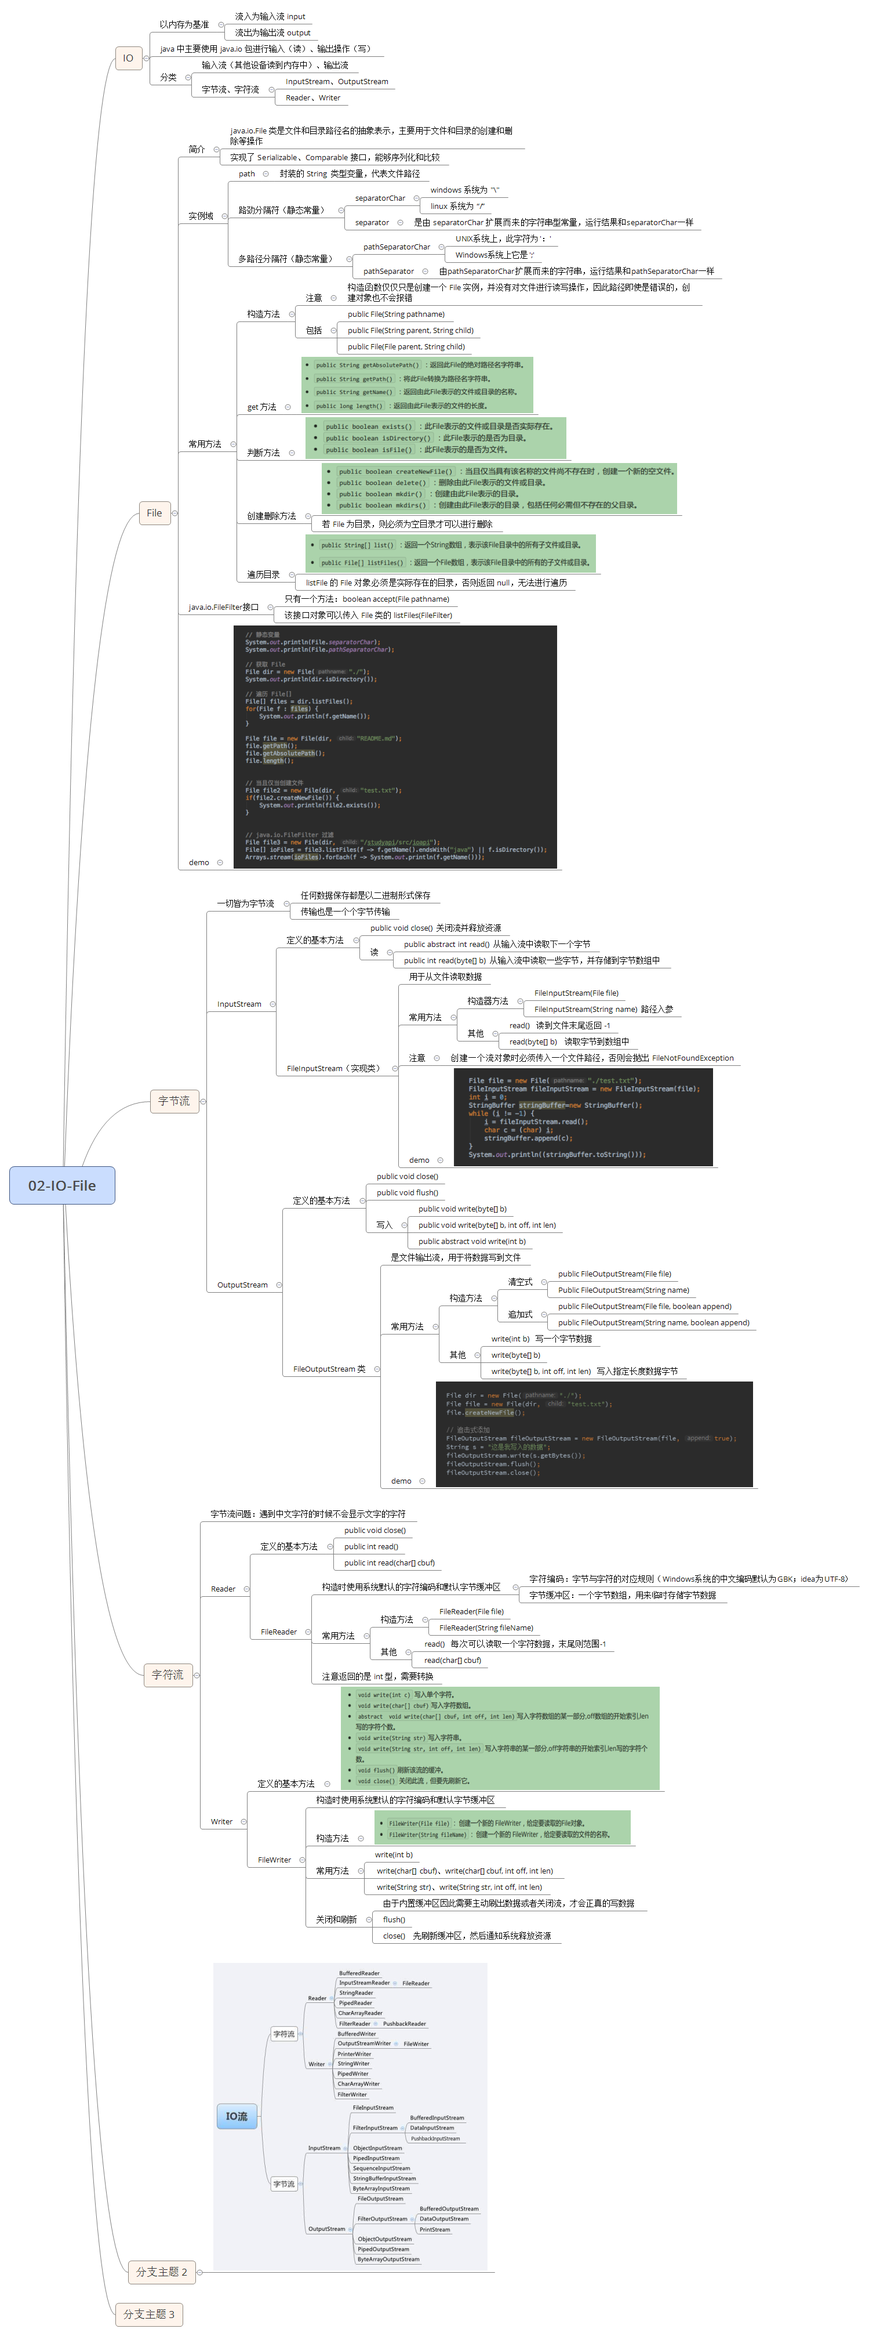
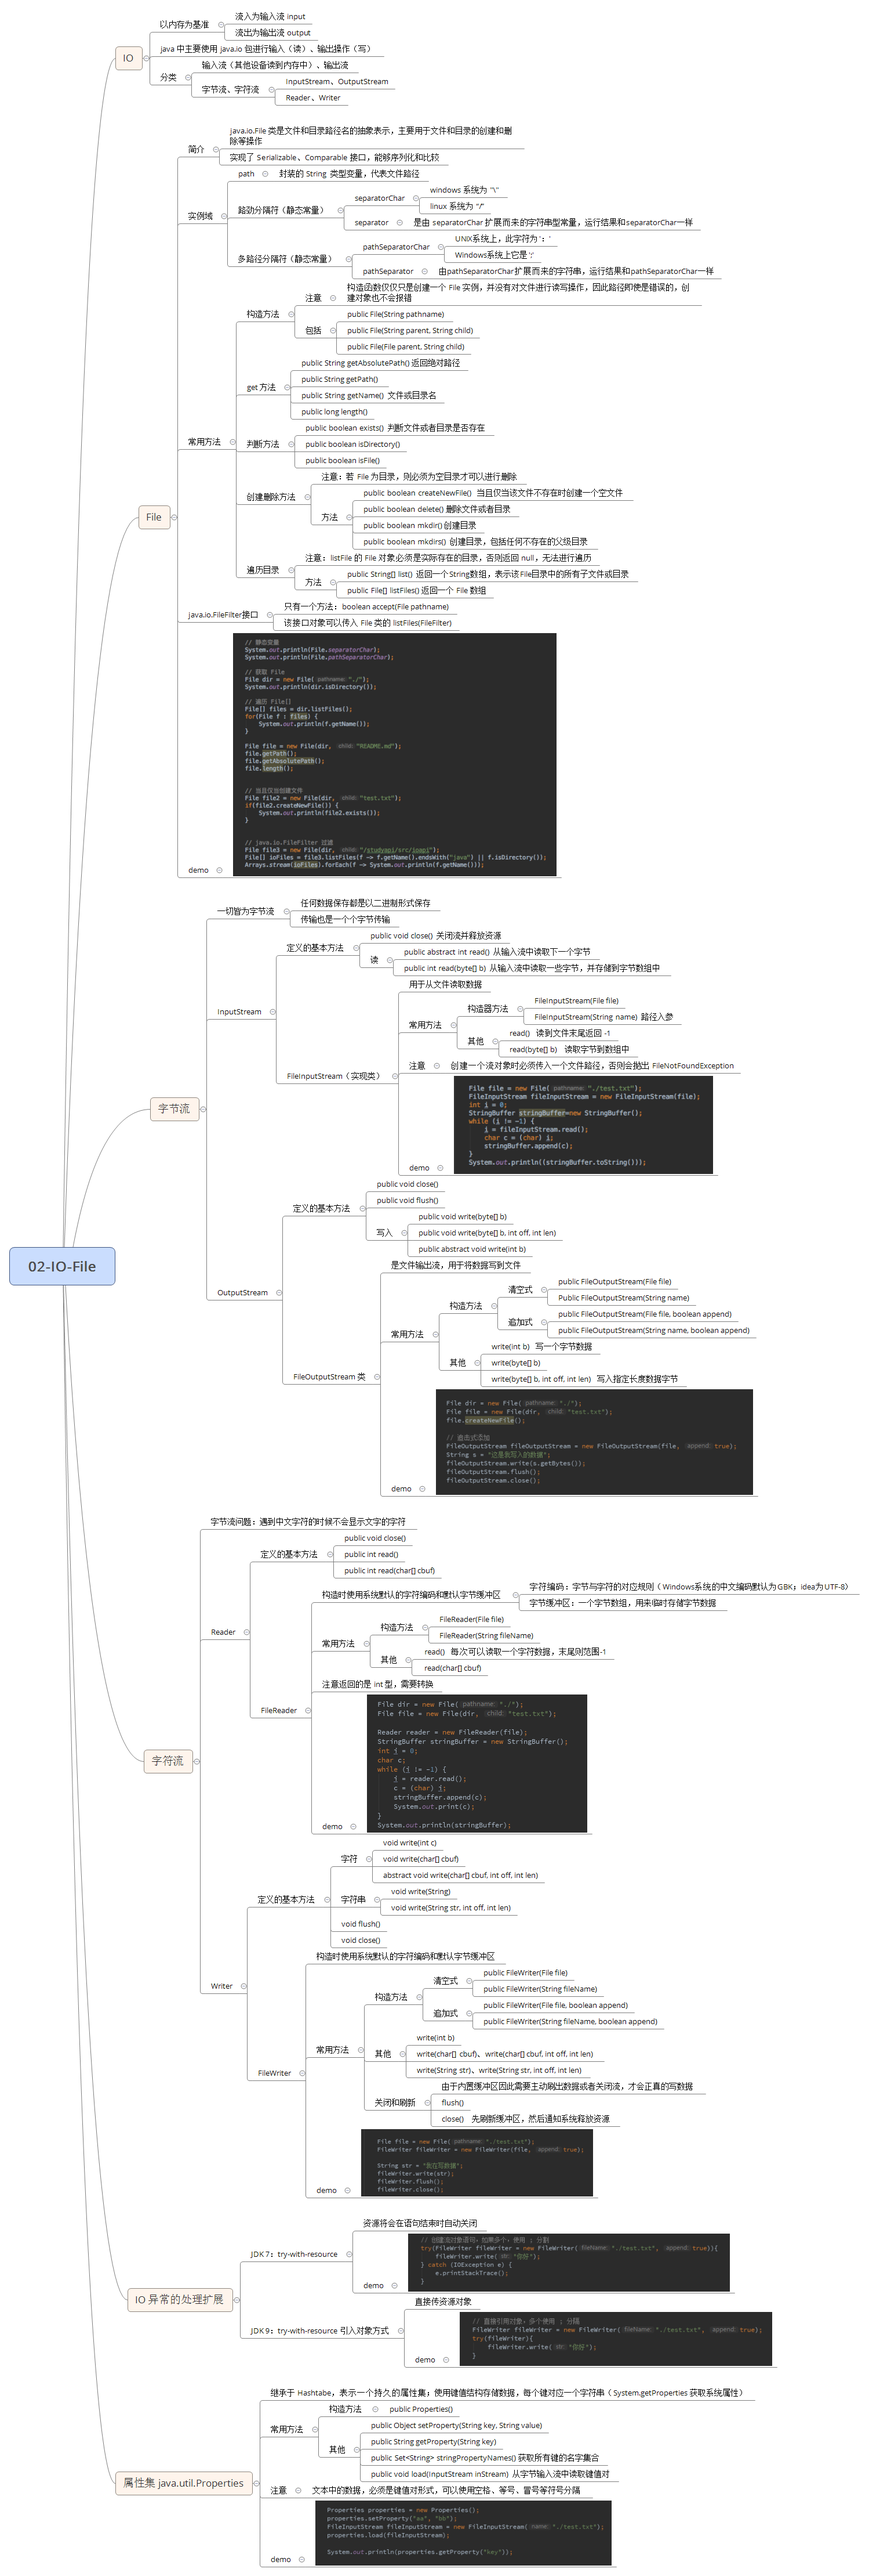
[feat] IO file

diff --git a/README.md b/README.md
@@ -30,6 +30,8 @@
 ### Java 8 Stream
 + [01. Stream 知识导图](https://github.com/suifeng412/JCKTree/blob/master/docs/stream/BaseStream.md)
 
+### IO
++ [01. File](https://github.com/suifeng412/JCKTree/blob/master/docs/io/File.md)
 
 ### 框架
 + [01. MyBatis](https://github.com/suifeng412/JCKTree/blob/master/docs/frame/MyBatis.md)

diff --git a/docs/io/File.md b/docs/io/File.md
@@ -1,0 +1,5 @@
+##IO-File
+
+<div  align="center">    
+<img src="https://github.com/suifeng412/JCKTree/blob/master/xmind/io/02-IO-File.png" width="300" alt="io-file" />
+</div>
